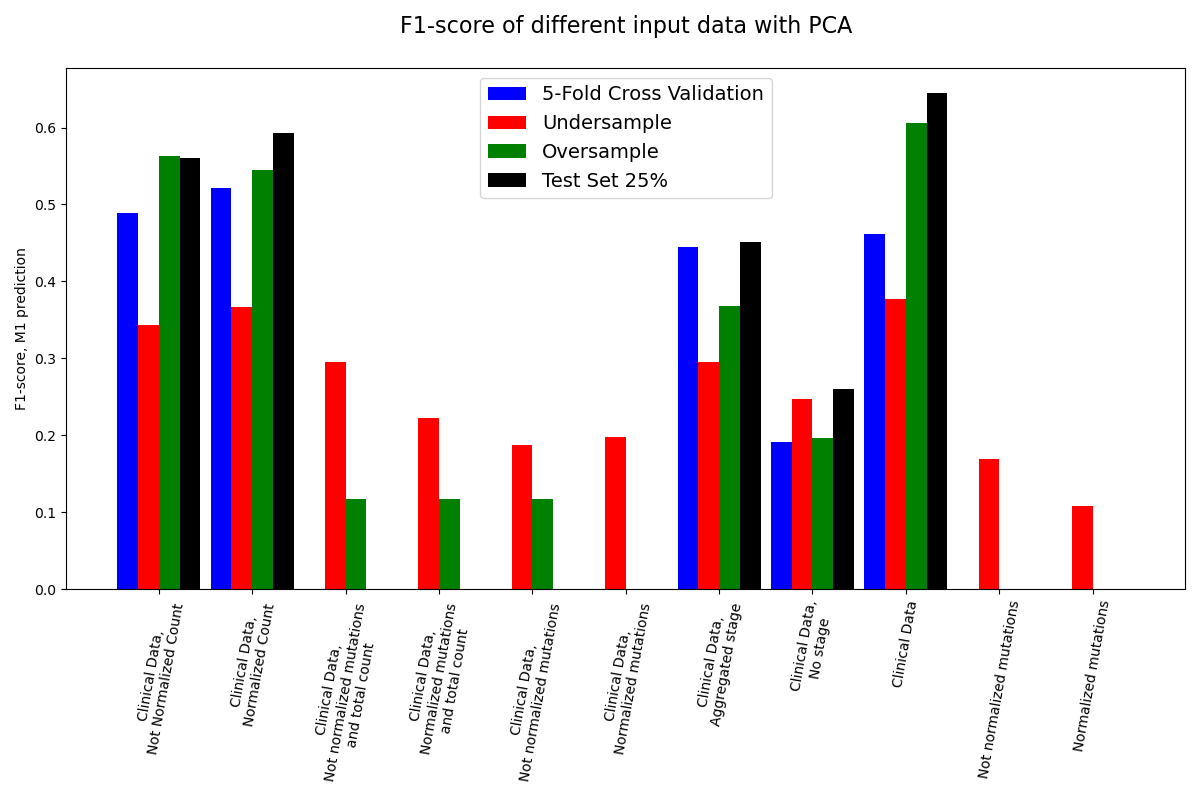
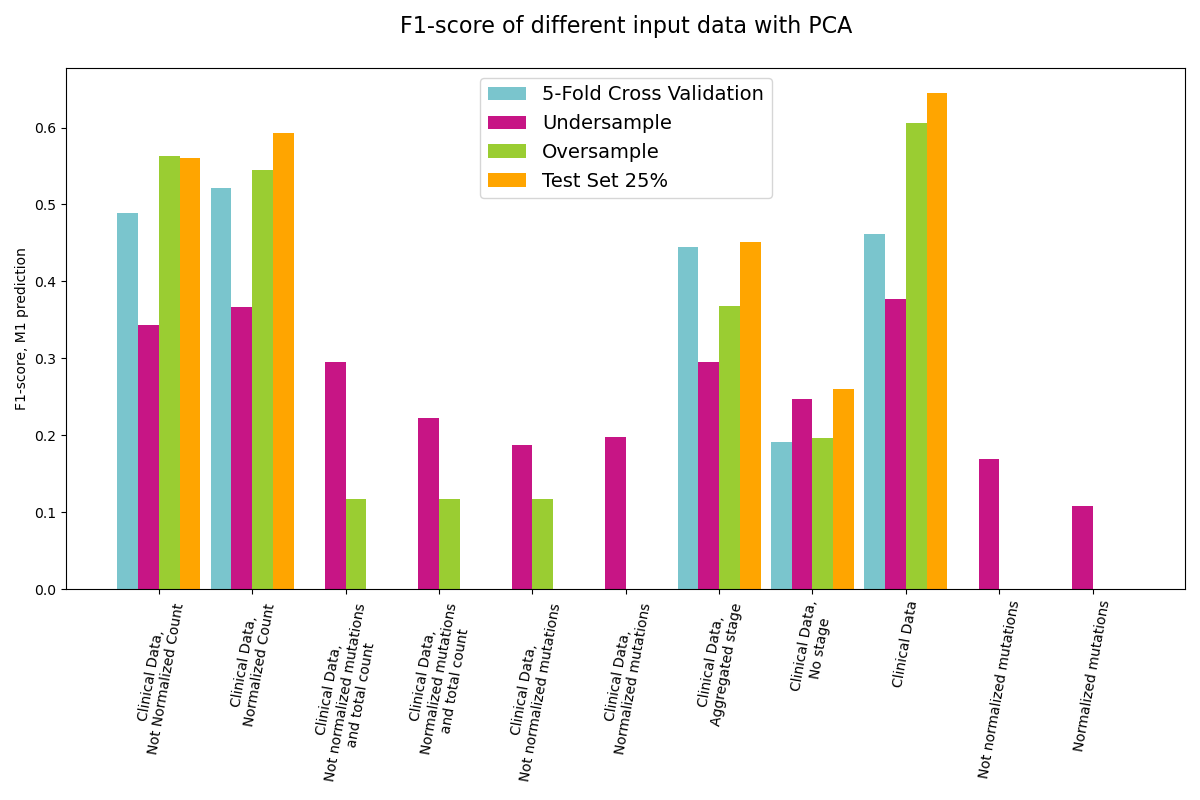
Change color palette on graph

diff --git a/meta_analysis/f1_score_plot.py b/meta_analysis/f1_score_plot.py
@@ -34,13 +34,13 @@ def bar_plot(axes: Axes, df: pd.DataFrame, title: str) -> None:
     width = 1.0 / 4.5
     cross_validation = df[df["Cross Validation"] != "None"]
     labels = np.arange(len(cross_validation))
-    axes.bar(labels - (3 * width / 2), cross_validation["M1: F1-score"], width, color="b", label="5-Fold Cross Validation")
+    axes.bar(labels - (3 * width / 2), cross_validation["M1: F1-score"], width, color="#7AC5CD", label="5-Fold Cross Validation")
     under = df[df["Resampling"] == "Undersample"]
-    axes.bar(labels - (width / 2), under["M1: F1-score"], width, color="r", label="Undersample")
+    axes.bar(labels - (width / 2), under["M1: F1-score"], width, color="#C71585", label="Undersample")
     over = df[df["Resampling"] == "Oversample"]
-    axes.bar(labels + (width / 2) , over["M1: F1-score"], width, color="g", label="Oversample")
+    axes.bar(labels + (width / 2) , over["M1: F1-score"], width, color="#9ACD32", label="Oversample")
     test_set = df[(df["Resampling"] == "None") & (df["Cross Validation"] == "None")]
-    axes.bar(labels + (3 * width / 2), test_set["M1: F1-score"], width, color="k", label="Test Set 25%")
+    axes.bar(labels + (3 * width / 2), test_set["M1: F1-score"], width, color="#FFA500", label="Test Set 25%")
     axes.legend(fontsize=FONTSIZE)
     axes.set_xticks(labels)
     axes.tick_params(axis='x', rotation=DEGREES)
